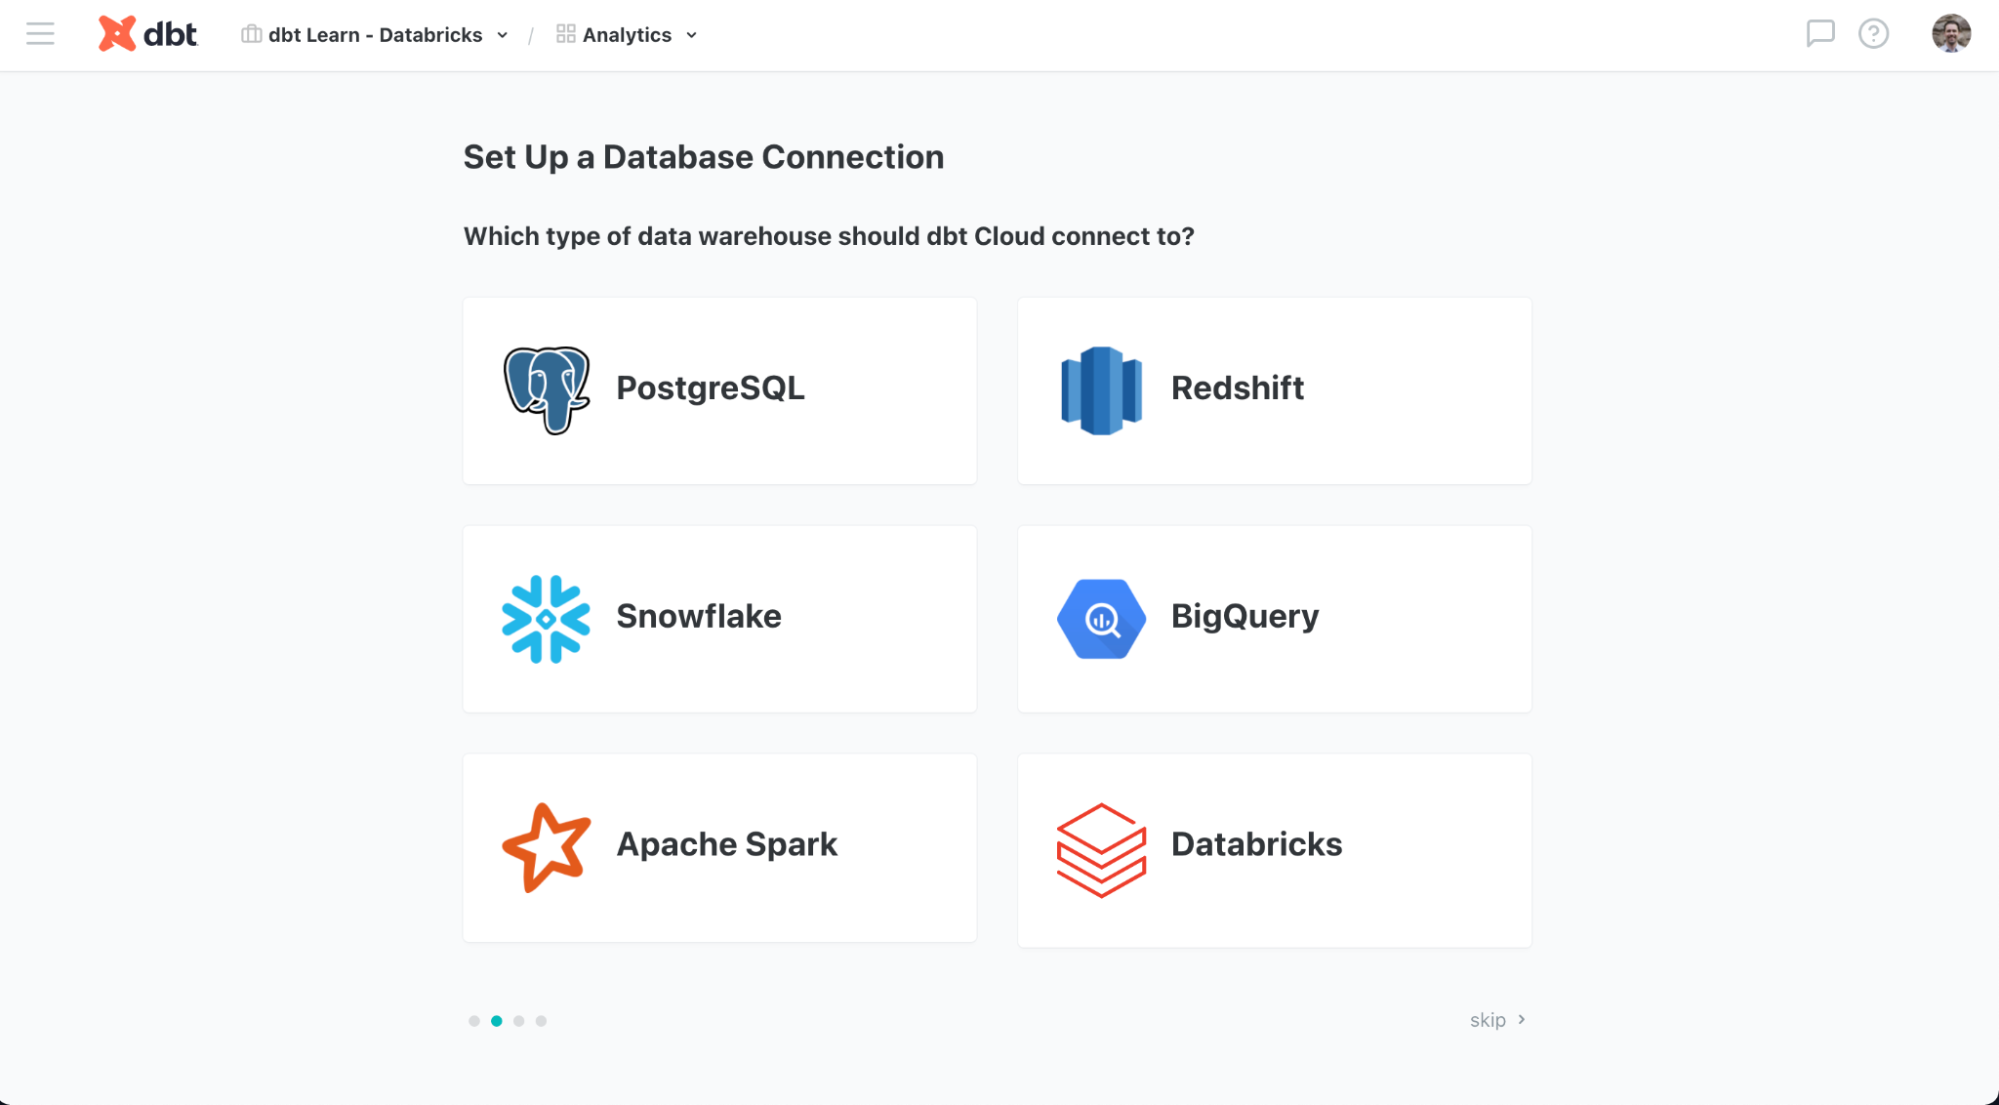
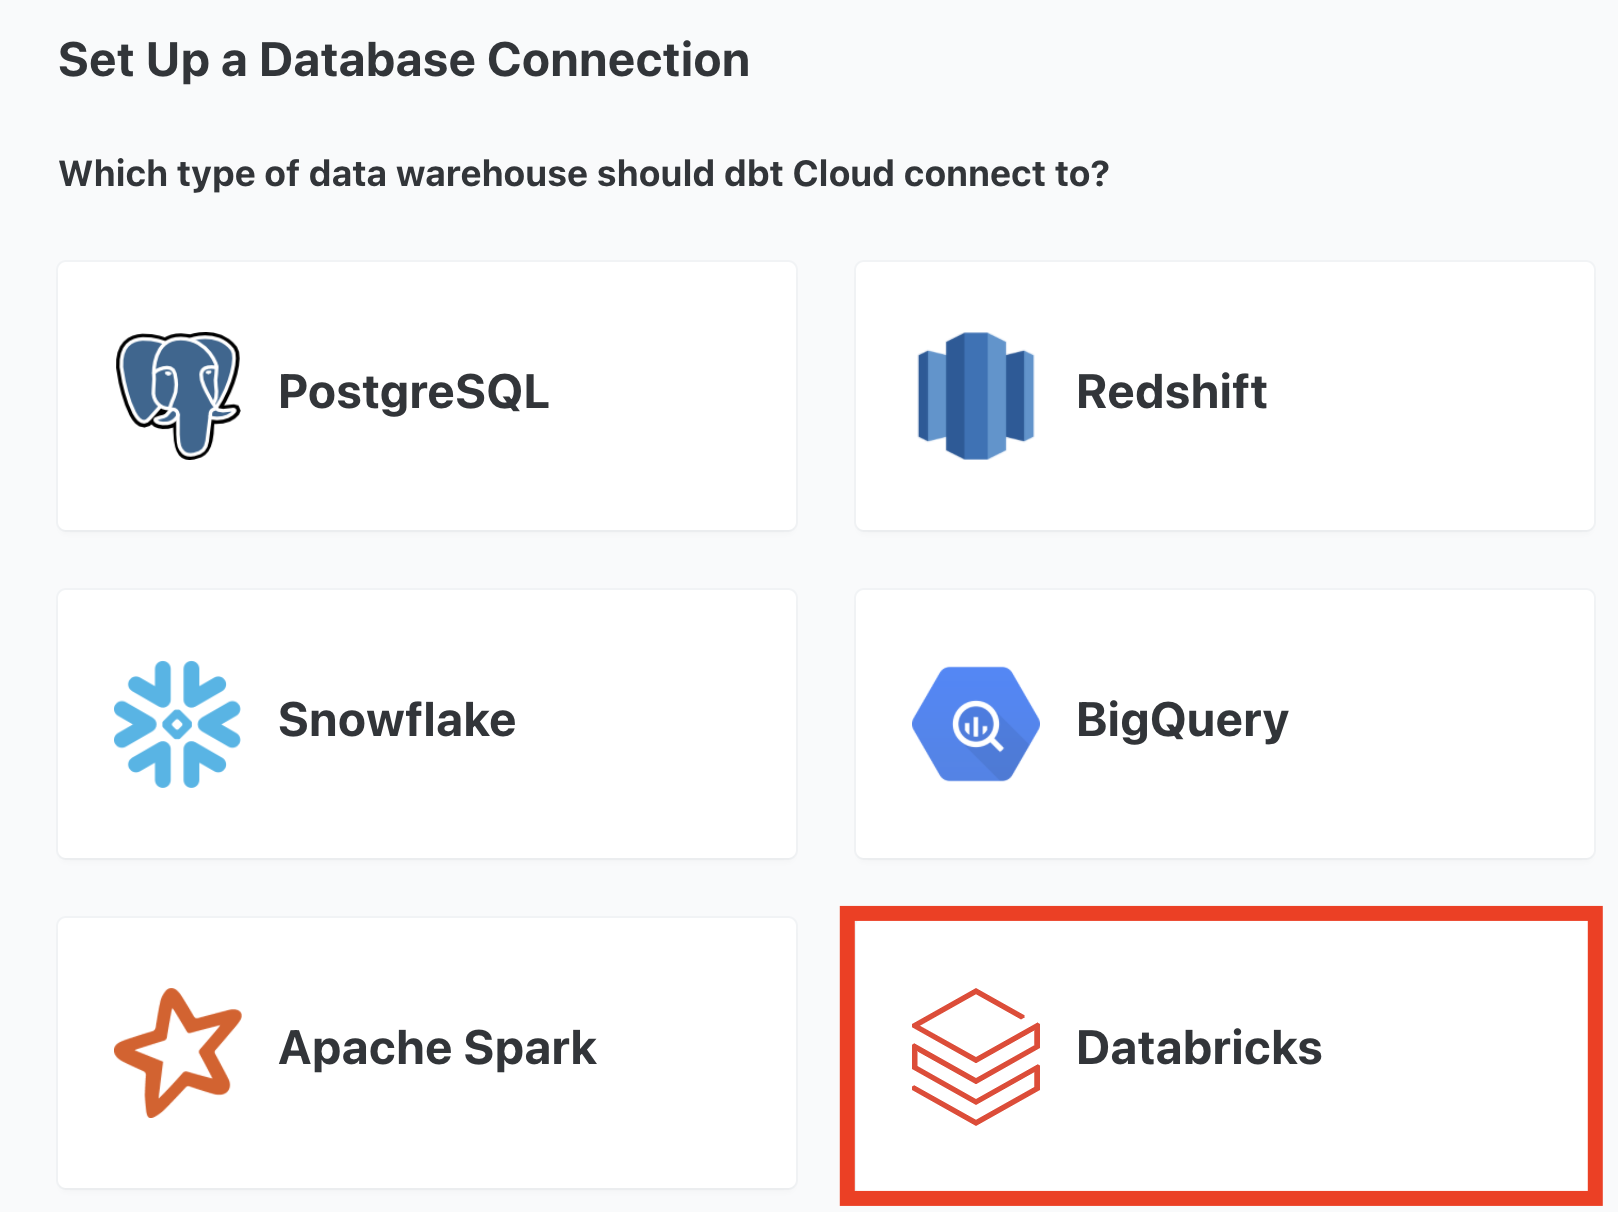
add in the dbt Cloud setup section

diff --git a/website/docs/tutorial/1c-setting-up-databricks.md b/website/docs/tutorial/1c-setting-up-databricks.md
@@ -157,16 +157,79 @@ select * from stripe.payments
 
 <Lightbox src="/img/databricks_tutorial/images/query_check.png" title="Query Check" />
 
+6. To get setup in dbt Cloud, you will now need to get the SQL Endpoint connection information and generate a user token. 
+
+You can find your SQL endpoint connection information by going to the `Databricks UI > SQL > SQL Endpoints > Starter Endpoint > Connection details`. Save this information or keep this window open for the next part.
+
+<Lightbox src="/img/databricks_tutorial/images/SQL_Endpoint_Details.png" title="Databrick SQL Endpoint Connection Information" />
+
+7. To generate a user token for your development credentials in dbt Cloud, click on `Settings` on the left side console (while still in the SQL part of the workspace). Click on `Personal Access Token` and provide a comment like `dbt Cloud development`
+
+<Lightbox src="/img/databricks_tutorial/images/Generate_user_token.png" title="Generate User Token" />
+
+Save the token information somewhere because you will need it for the next part. 
+
 
 Congratulations! At this point, you have created a Databricks account, loaded training data, and successfully set up a SQL end point to query the data.  In the next section, we will walk through the next steps to connect dbt Cloud and Databricks.
+
 
 ## Set up a project to connect dbt Cloud to Databricks
 
 Now it’s time to connect to dbt Cloud to Databricks in order to develop your dbt Project. 
 
-If you haven’t already, navigate to dbt Cloud and create a new account. If you already have a dbt Cloud account, you can create a new project in your existing account.  In this tutorial, we will be using the Set Up project workflow for new users.  This can easily be adapted for additional projects to an existing account.
+If you don't have an existing dbt Cloud account, you can [sign up for a dbt Cloud trial account here.](https://www.getdbt.com/signup/). If you already have a dbt Cloud account, you can create a new project in your existing account.  In this tutorial, we will be using the Set Up project workflow for new users.  This can easily be adapted for additional projects to an existing account.
 
+1. Log into dbt Cloud in a new window. Once you have logged into your new account and validated your email, you will see our Project Setup Flow with the page Set up “Analytics”.  Click `Continue`. 
 
-1. Let’s go over to dbt Cloud.  In the suitcase project dropdown at the top, click “Create a new account…”. Add a “COMPANY NAME”. As soon as you create a new account, you will be created with the Project Setup Flow, Set up “Analytics”.  Click”Continue”.
+<Lightbox src="/img/databricks_tutorial/images/setup_flow_dbt_cloud.png" title="dbt Cloud Set Up Flow" />
 
+2. Choose `Databricks` on the Set Up a Database Connection page. 
 
+<Lightbox src="/img/databricks_tutorial/images/setup_database_connection.png" title="Databrick Connection" />
+
+3. Here we will configure our connection to Databricks.
+ 
+ a. For the name, simply write `Databricks` or another simple title.
+ b. For Databricks settings, reference your SQL endpoint connection details for each of the following field:
+ - Method will be ODBC
+ - “Hostname” comes from “Server hostname”
+ - “Endpoint” comes from the last part of “HTTP path” after `/endpoints`
+ c. For your Development Credentials, input: 
+ - “User” input “token” from Step 7 of the previous section
+ - For the schema field, choose a development schema (this will be your default development database to build objects into).  We recommend something in the form of dbt_{{ first initial, last name}} like dbt_achen.  
+ 
+ <Lightbox src="/img/databricks_tutorial/images/setup_databricks_connection.png" title="Databrick Connection" />
+ 
+ 4. Then scroll to the top of the page to test your connection. Once successful, click on `Continue`
+
+5. On the next page, we will “Set up a Repository”.  For training purposes, we recommend selecting a managed repo and entering your first initial, last name for the repository name.  “Create” your repository and select “Continue”.
+
+6. Now you can start developing!  Open the left hand hamburger menu in dbt Cloud and choose “Develop”.  This will load up the dbt Cloud IDE.  
+
+7. In the upper left hand corner, select `initialize your project`.  This will set up the folder structure for your dbt Project.  Then select `commit` to initialize your repo with the commit message `Initial Commit`.  Create a new branch with the title `start-dbt-fundamentals`.  Your UI in the top left should look like this.
+
+ <Lightbox src="/img/databricks_tutorial/images/IDE.png" title="dbt Cloud IDE" />
+ 
+ 8. Finally, let’s make sure everything is connected correctly.  In the “Statement 1” tab, type the following code: 
+ 
+ ```sql 
+ Select * from jaffle_shop_customers 
+```
+Click on `Preview` and you should see the same results as you saw earlier when you queried the table directly in Databricks SQL editor.
+
+ <Lightbox src="/img/databricks_tutorial/images/preview_query.png" title="Preview Query" />
+
+9. Now to make sure your dbt project can run. In the command line below, type in `dbt run`. 
+
+ <Lightbox src="/img/databricks_tutorial/images/dbt_run.png" title="Test out dbt run" />
+ 
+ You can click on the tab to expand to see 
+ 
+ <Lightbox src="/img/databricks_tutorial/images/dbt_run_status.png" title="dbt Run status" />
+ 
+
+Success!  You are all set to leverage the power of dbt Cloud and Databricks together.  As a recap, we just completed the following:
+Set up a Databricks account
+Loaded training data into your Databricks account
+Configured a SQL endpoint in Databricks
+Connected dbt Cloud and Databricks
